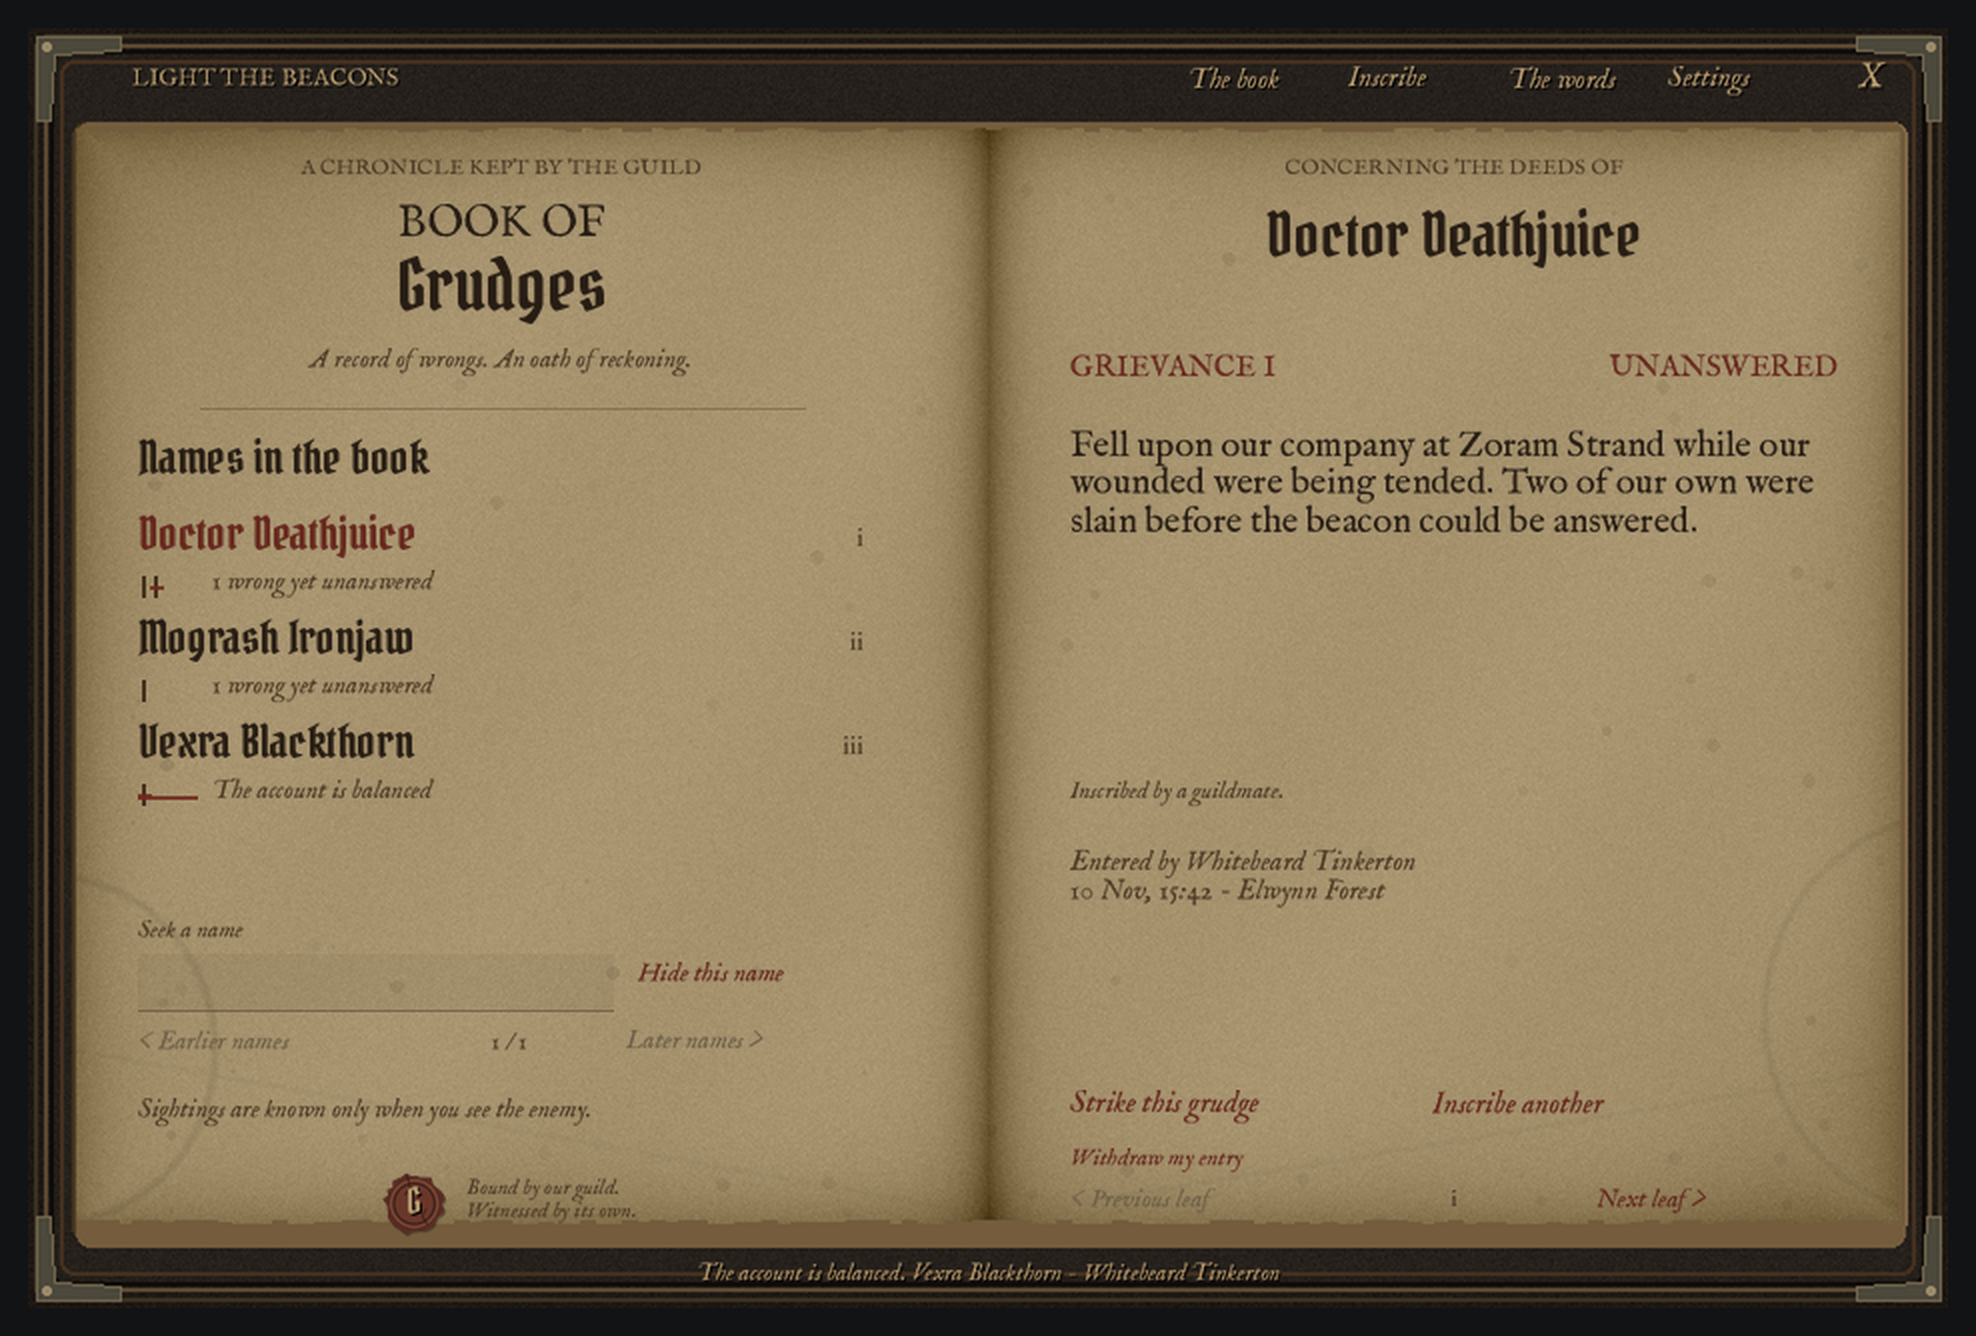
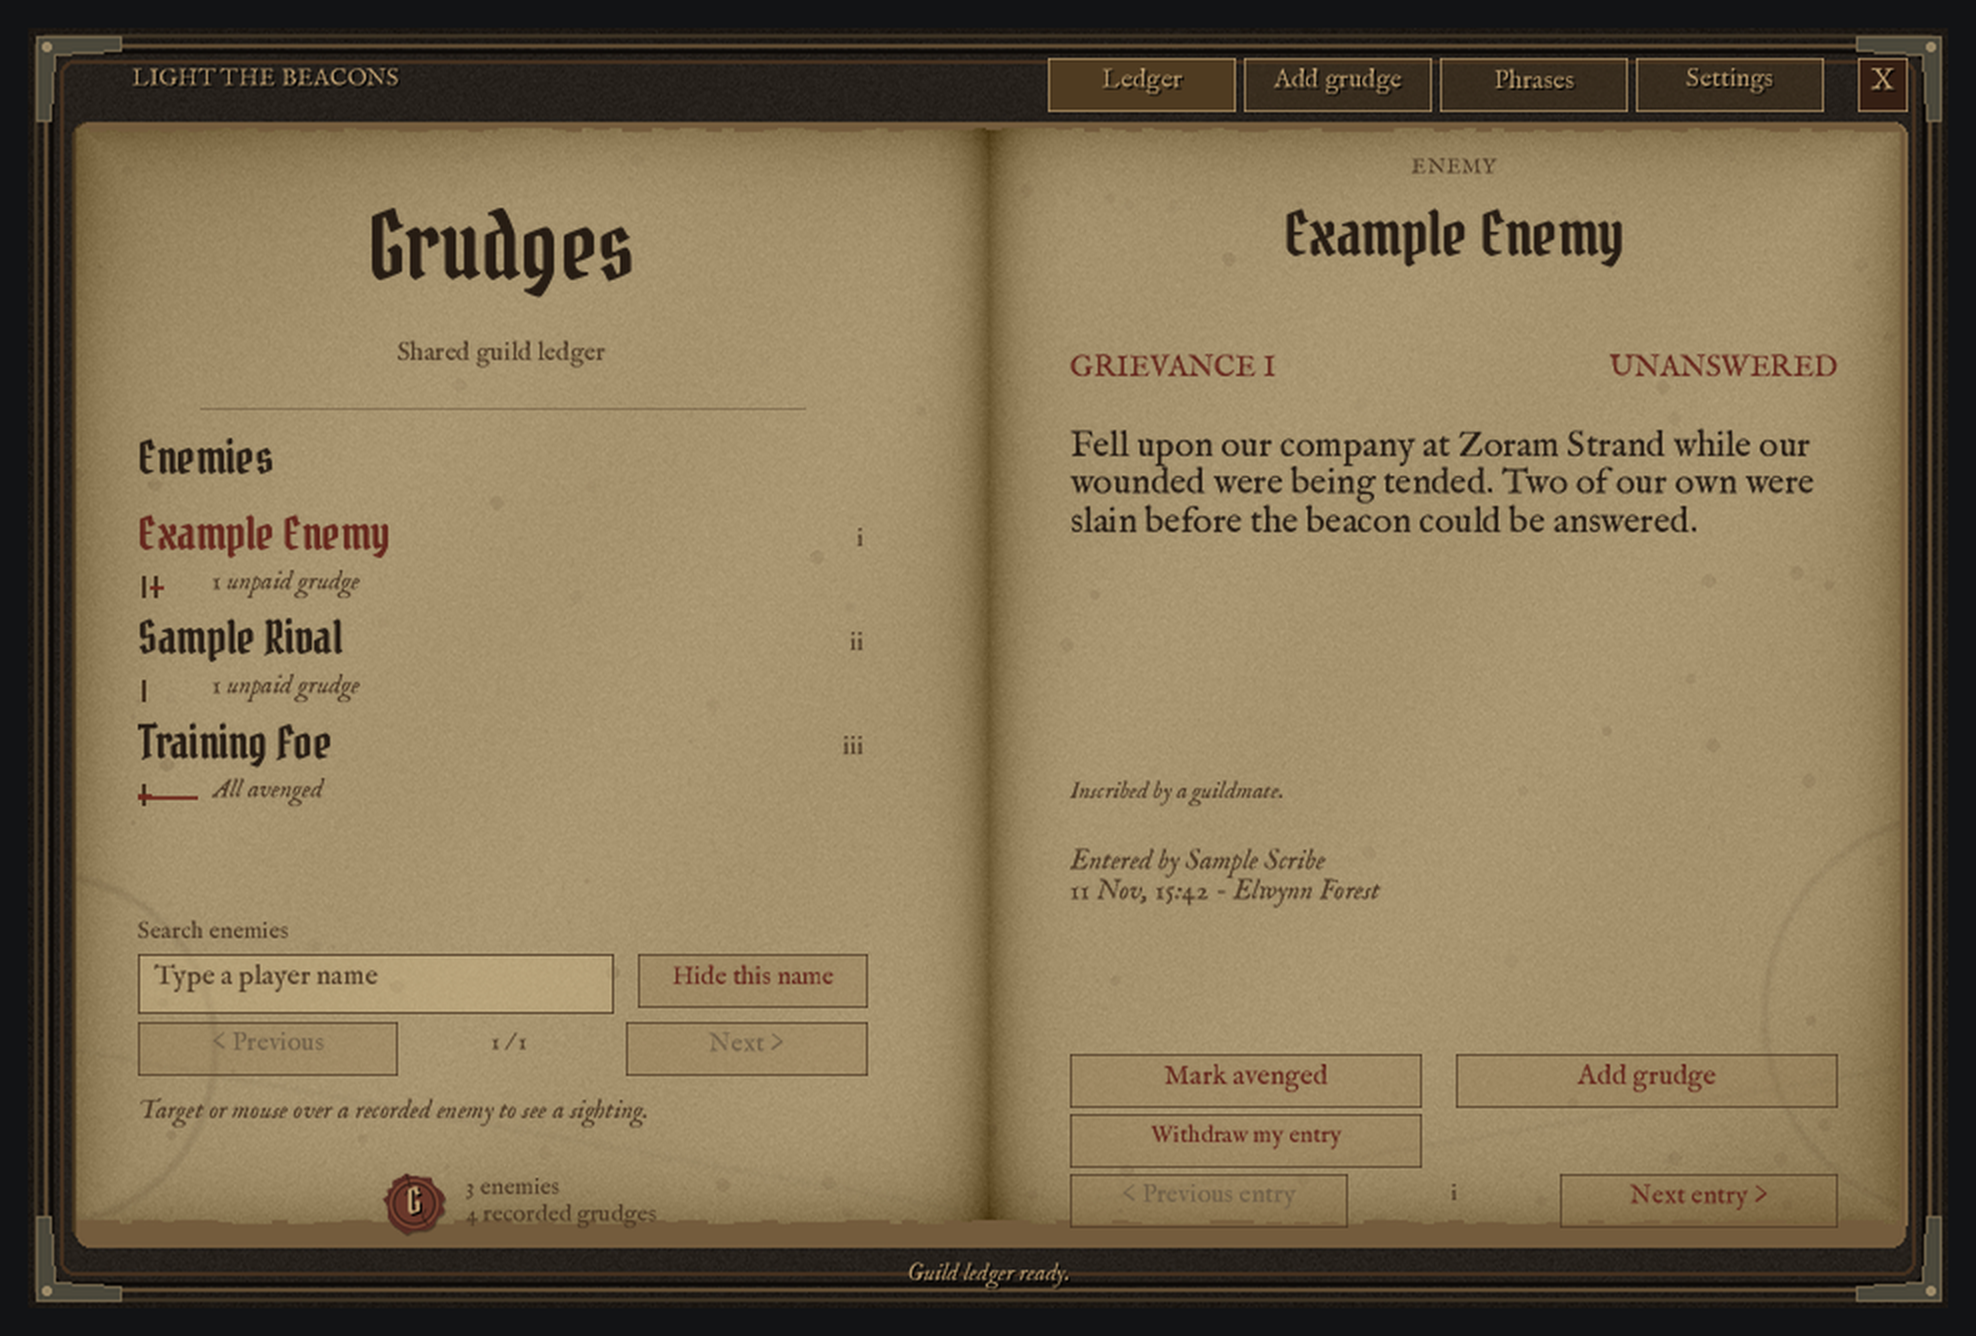
Clarify Grudges controls and add anonymized gallery previews

diff --git a/tools/build_gallery.py b/tools/build_gallery.py
@@ -1,0 +1,72 @@
+"""Build CurseForge gallery images from real Lua widgets and synthetic fixtures."""
+from pathlib import Path
+from PIL import Image, ImageDraw, ImageFont
+import hashlib
+import json
+import subprocess
+import sys
+
+root = Path(__file__).resolve().parents[1]
+work = root / 'work/gallery-1.6.1'
+out = root / 'docs/gallery'
+work.mkdir(parents=True, exist_ok=True)
+out.mkdir(parents=True, exist_ok=True)
+prefix = work / 'native'
+subprocess.run(['luajit', 'tests/light-beacons.lua', 'LightTheBeacons', str(prefix)], cwd=root, check=True)
+
+scenes = ['window', 'expanded', 'alert', 'composer', 'grudges', 'grudges-fields', 'grudges-avenged', 'grudges-empty']
+for scene in scenes:
+    subprocess.run([sys.executable, 'tests/render_light_beacons.py', str(prefix) + '-' + scene + '.json',
+                    str(work / (scene + '.png'))], cwd=root, check=True, stdout=subprocess.DEVNULL)
+
+font = root / 'LightTheBeacons/Fonts/IMFeENrm28P.ttf'
+def face(size):
+    return ImageFont.truetype(str(font), size)
+
+def page(title, subtitle):
+    im = Image.new('RGB', (1920, 1440), '#0b1019')
+    d = ImageDraw.Draw(im)
+    d.rectangle((25, 25, 1894, 1414), outline='#695339', width=2)
+    d.text((80, 62), title, font=face(48), fill='#dcc28d')
+    d.text((80, 126), subtitle, font=face(29), fill='#bcc3ce')
+    d.line((80, 179, 1840, 179), fill='#695339', width=2)
+    d.text((80, 1373), 'Light the Beacons 1.6.1  /  WoW Forever', font=face(23), fill='#a09a8c')
+    d.text((1090, 1373), 'UI renders with fictional sample names', font=face(23), fill='#a09a8c')
+    return im
+
+def widget(im, name, box):
+    picture = Image.open(work / (name + '.png')).convert('RGB')
+    # Remove only the renderer's neutral outer margin; preserve the whole widget.
+    picture = picture.crop((28, 28, picture.width - 28, picture.height - 28))
+    picture.thumbnail((box[2], box[3]), Image.Resampling.LANCZOS)
+    im.paste(picture, (box[0] + (box[2] - picture.width) // 2, box[1]))
+
+gallery = []
+im = page('Guild calls for aid', 'A compact Rally card, a native war horn, and routes using your known flight points.')
+d = ImageDraw.Draw(im)
+d.text((105, 225), 'Compact Rally card', font=face(32), fill='#dcc28d')
+d.text((1015, 225), 'Expanded route details', font=face(32), fill='#dcc28d')
+widget(im, 'window', (90, 285, 820, 660))
+widget(im, 'expanded', (1000, 285, 820, 1020))
+d.text((105, 850), 'Guild-only beacon alert', font=face(32), fill='#dcc28d')
+widget(im, 'alert', (90, 910, 820, 350))
+gallery.append(('01-rally-and-routes.png', im, 'Guild calls and rescue routes', 'Compact Rally card, incoming alert and expanded route. Fictional sample names; rendered addon UI.'))
+im = page('Grudges', 'A guild-shared ledger with signed entries, unpaid tallies, and seals for avenged grudges.')
+widget(im, 'grudges-avenged', (105, 205, 1710, 1140))
+gallery.append(('02-guild-grudges.png', im, 'Guild-shared Grudges ledger', 'A recorded grudge marked avenged while preserving the original entry. Fictional sample names; rendered addon UI.'))
+im = page('Add a grudge', 'Clear fields and actions, with each saved entry shared through the guild addon channel.')
+widget(im, 'grudges-fields', (105, 205, 1710, 1140))
+gallery.append(('03-add-a-grudge.png', im, 'Clear grudge entry controls', 'Outlined fields, typing hints and a Save to guild ledger button. Fictional sample names; rendered addon UI.'))
+records = []
+for filename, im, title, caption in gallery:
+    path = out / filename
+    im.save(path, optimize=True)
+    records.append({'file': filename, 'title': title, 'caption': caption,
+                    'sha256': hashlib.sha256(path.read_bytes()).hexdigest(), 'size': list(im.size)})
+for scene, filename in [('window', 'compact-rally-card.png'), ('expanded', 'compact-rally-details.png'),
+                        ('composer', 'beacon-messages.png'), ('grudges', 'book-of-grudges.png')]:
+    (root / 'docs' / filename).write_bytes((work / (scene + '.png')).read_bytes())
+(out / 'manifest.json').write_text(json.dumps({'version': '1.6.1', 'kind': 'Native Lua UI renders',
+    'sampleNames': ['Example Ally', 'Sample Scout', 'Sample Healer', 'Example Enemy', 'Sample Rival', 'Training Foe', 'Sample Scribe'],
+    'images': records}, indent=2) + '\n')
+print(json.dumps(records, indent=2))

diff --git a/LightTheBeacons/README.md b/LightTheBeacons/README.md
@@ -1,4 +1,4 @@
-# Light the Beacons 1.6.0
+# Light the Beacons 1.6.1
 
 A private guild call for aid for **World of Warcraft: Forever (interface 16001)**.
 Sound the horn, rally guildmates who use the addon, and follow a travel route
@@ -41,7 +41,7 @@ Options contains settings, local previews and the subtle
 
 ## Use
 
-- `/ltb grudges` or **Book of Grudges** on the Rally card: open the shared ledger.
+- `/ltb grudges` or **Grudges** on the Rally card: open the shared ledger.
 - `/ltb` or the brazier beside the minimap: open the card.
 - `/ltb light`: compose a call at your position (or your fallen body).
 - `/ltb clear`: extinguish your beacon.
@@ -177,14 +177,15 @@ exchange beacons normally but do not share background positions.
 is required. Every participating guildmate needs 1.6.0 or later. Older clients
 continue to exchange beacons normally and ignore the separate ledger protocol.
 
-The book has a dark leather binding, stained parchment, legible fantasy titles,
-a name index and one grievance per facing leaf. **Inscribe** accepts the enemy's
+The **Grudges** ledger has a dark leather binding, stained parchment, legible fantasy titles,
+a name index and one grievance per facing leaf. **Add grudge** accepts the enemy's
 full name and up to 160 characters. **Use hostile target** fills a readable player
-name. Every entry is signed with its author, date and zone and is shared with
-guild addon users. **Previous/Next leaf** traverses a debtor's history; the name
+name. Outlined fields include typing hints and a focus highlight; framed buttons
+identify actions clearly. Every entry is signed with its author, date and zone and is shared with
+guild addon users. **Previous/Next entry** traverses a debtor's history; the name
 index is paged and searchable. Hover a page for the complete written record.
 
-Any guildmate can **Strike this grudge** after witnessing the enemy's defeat.
+Any guildmate can **Mark avenged** after witnessing the enemy's defeat.
 The confirmation records one victory against one selected debt, preserves the
 original words, and adds an attributed wax seal. Manual records are identified
 as manually witnessed victories. Only the original scribe can **Withdraw my
@@ -205,9 +206,8 @@ Sightings are local observations of a hostile player you target or mouse over;
 they are not shared or saved as enemy tracking. **Hide this name** suppresses a
 debtor in your index and sightings locally. Restore hidden names in Settings.
 Turning off **Use the guild-shared book** pauses receiving, sending and automatic
-recording and makes saved pages read-only. **The words** chooses a phrase per
-occasion or lets the book rotate through them. “The account is balanced” is
-reserved for a debtor with no unpaid wrongs. Notices use one bottom-screen slot;
+recording and makes saved pages read-only. **Phrases** offers optional themed wording; concise notifications are the default.
+“All grudges avenged” appears only when a debtor has no unpaid entries. Notices use one bottom-screen slot;
 the existing beacon alert mute also suppresses them.
 
 The ledger uses `LTBGR1` on the hidden `GUILD` addon-data channel. It sends no

diff --git a/README.md b/README.md
@@ -4,7 +4,8 @@ A guild rescue addon for **World of Warcraft: Forever (interface 16001)**.
 Sound a war horn and call your guildmates to your aid, with estimated routes
 based on each responding character’s discovered flight points and trained riding tier.
 
-**[Download the latest addon ZIP](https://github.com/TLT26-churn/LightTheBeacons/releases/latest)** ·
+**[CurseForge](https://www.curseforge.com/wow/addons/light-the-beacons)** ·
+[GitHub downloads](https://github.com/TLT26-churn/LightTheBeacons/releases/latest) ·
 [Full guide](LightTheBeacons/README.md) · [Release notes](CHANGELOG.md)
 
 ## Install on Windows or Linux
@@ -24,6 +25,9 @@ your available flight points; repeat on other continents you use. Every
 participating guildmate needs the addon. Keep your SavedVariables when updating.
 
 ## What it does
+
+- **1.6.1** makes the Grudges ledger clearer: outlined inputs with typing hints,
+  framed action buttons, concise default alerts and a single fantasy title.
 
 - Version 1.6.0 adds a **guild-shared Book of Grudges**. Open it from the Rally
   card or with `/ltb grudges`: an aged, iron-bound ledger with signed grievances,
@@ -64,9 +68,9 @@ hand. **Details** reveals the route, map and responders; answering adds a short
 next-step strip. Your own call offers **Extinguish My Beacon**. The author credit
 is tucked into **Options**, and the original royal brazier ships with the addon.
 
-![Guild Book of Grudges — rendered from the native Lua UI with sample entries](docs/book-of-grudges.png)
+![Grudges ledger — rendered addon UI with fictional sample names](docs/gallery/02-guild-grudges.png)
 
-![Compact Rally card — rendered from the native Lua UI with sample data](docs/compact-rally-card.png)
+![Guild calls and rescue routes — rendered addon UI with fictional sample names](docs/gallery/01-rally-and-routes.png)
 
 **Messages:** choose **Light mine** or `/ltb light`, type an optional message
 (up to 48 characters), or select one of your three saved messages. Click **Save

diff --git a/CHANGELOG.md b/CHANGELOG.md
@@ -1,5 +1,18 @@
 # Release notes
 
+## 1.6.1 — Clearer Grudges controls
+
+- Title the tome **Grudges**, retaining the aged parchment and fantasy lettering.
+- Give editable fields outlines, typing hints and focus highlights. Frame buttons
+  and tabs so actions are visibly clickable; use direct labels for adding, saving
+  and marking a grudge avenged.
+- Remove decorative slogans from the main pages and use concise default notices.
+  Optional themed phrases remain available in Phrases; saved choices are kept.
+- Add public gallery previews with synthetic sample names.
+- Preserve guild-ledger compatibility, saved grievances, flight data and settings.
+- Validate 493 simulated-client checks and the extracted Windows/Linux ZIP.
+
+
 ## 1.6.0 — The guild Book of Grudges
 
 - Integrate an aged, iron-bound ledger into Light the Beacons. Open it from the
